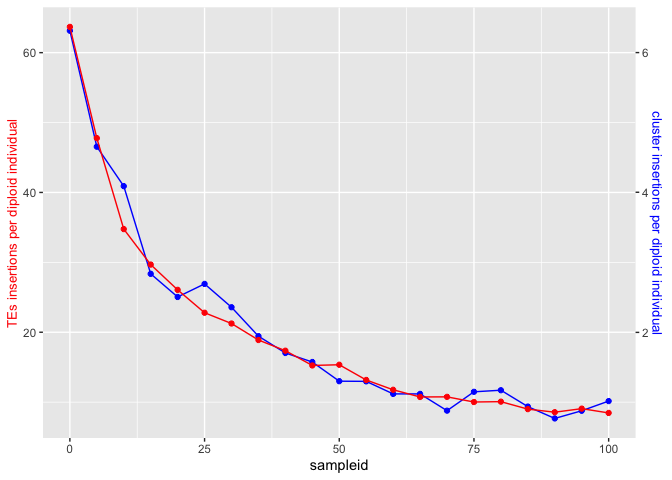
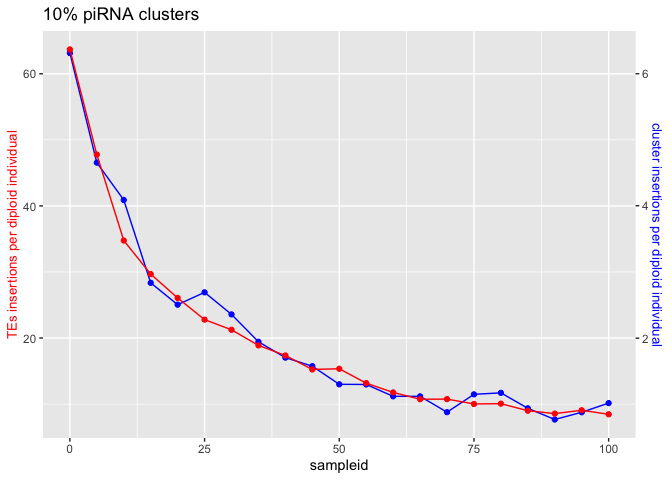
Minor fix: titles in the plots

diff --git a/Simulation/2022_09_31_Simulation_4_clusters_paramutations.md b/Simulation/2022_09_31_Simulation_4_clusters_paramutations.md
@@ -79,6 +79,7 @@ g4_05<-ggplot(df4_05_2, aes(x=sampleid))+
   geom_line(aes(y=mean_avcli*coeff_05), color="blue")+
   geom_point(aes(y=mean_avtes), color="red")+
   geom_line(aes(y=mean_avtes), color="red")+
+  ggtitle("5% piRNA clusters")+
   scale_y_continuous(
     name = "TEs insertions per diploid individual",
     sec.axis = sec_axis(~./coeff_05, name="cluster insertions per diploid individual")
@@ -100,6 +101,7 @@ g4_10<-ggplot(df4_10_2, aes(x=sampleid))+
   geom_line(aes(y=mean_avcli*coeff_10), color="blue")+
   geom_point(aes(y=mean_avtes), color="red")+
   geom_line(aes(y=mean_avtes), color="red")+
+  ggtitle("10% piRNA clusters")+
   scale_y_continuous(
     name = "TEs insertions per diploid individual",
     sec.axis = sec_axis(~./coeff_10, name="cluster insertions per diploid individual")
@@ -121,6 +123,7 @@ g4_20<-ggplot(df4_20_2, aes(x=sampleid))+
   geom_line(aes(y=mean_avcli*coeff_20), color="blue")+
   geom_point(aes(y=mean_avtes), color="red")+
   geom_line(aes(y=mean_avtes), color="red")+
+  ggtitle("20% piRNA clusters")+
   scale_y_continuous(
     name = "TEs insertions per diploid individual",
     sec.axis = sec_axis(~./coeff_20, name="cluster insertions per diploid individual")
